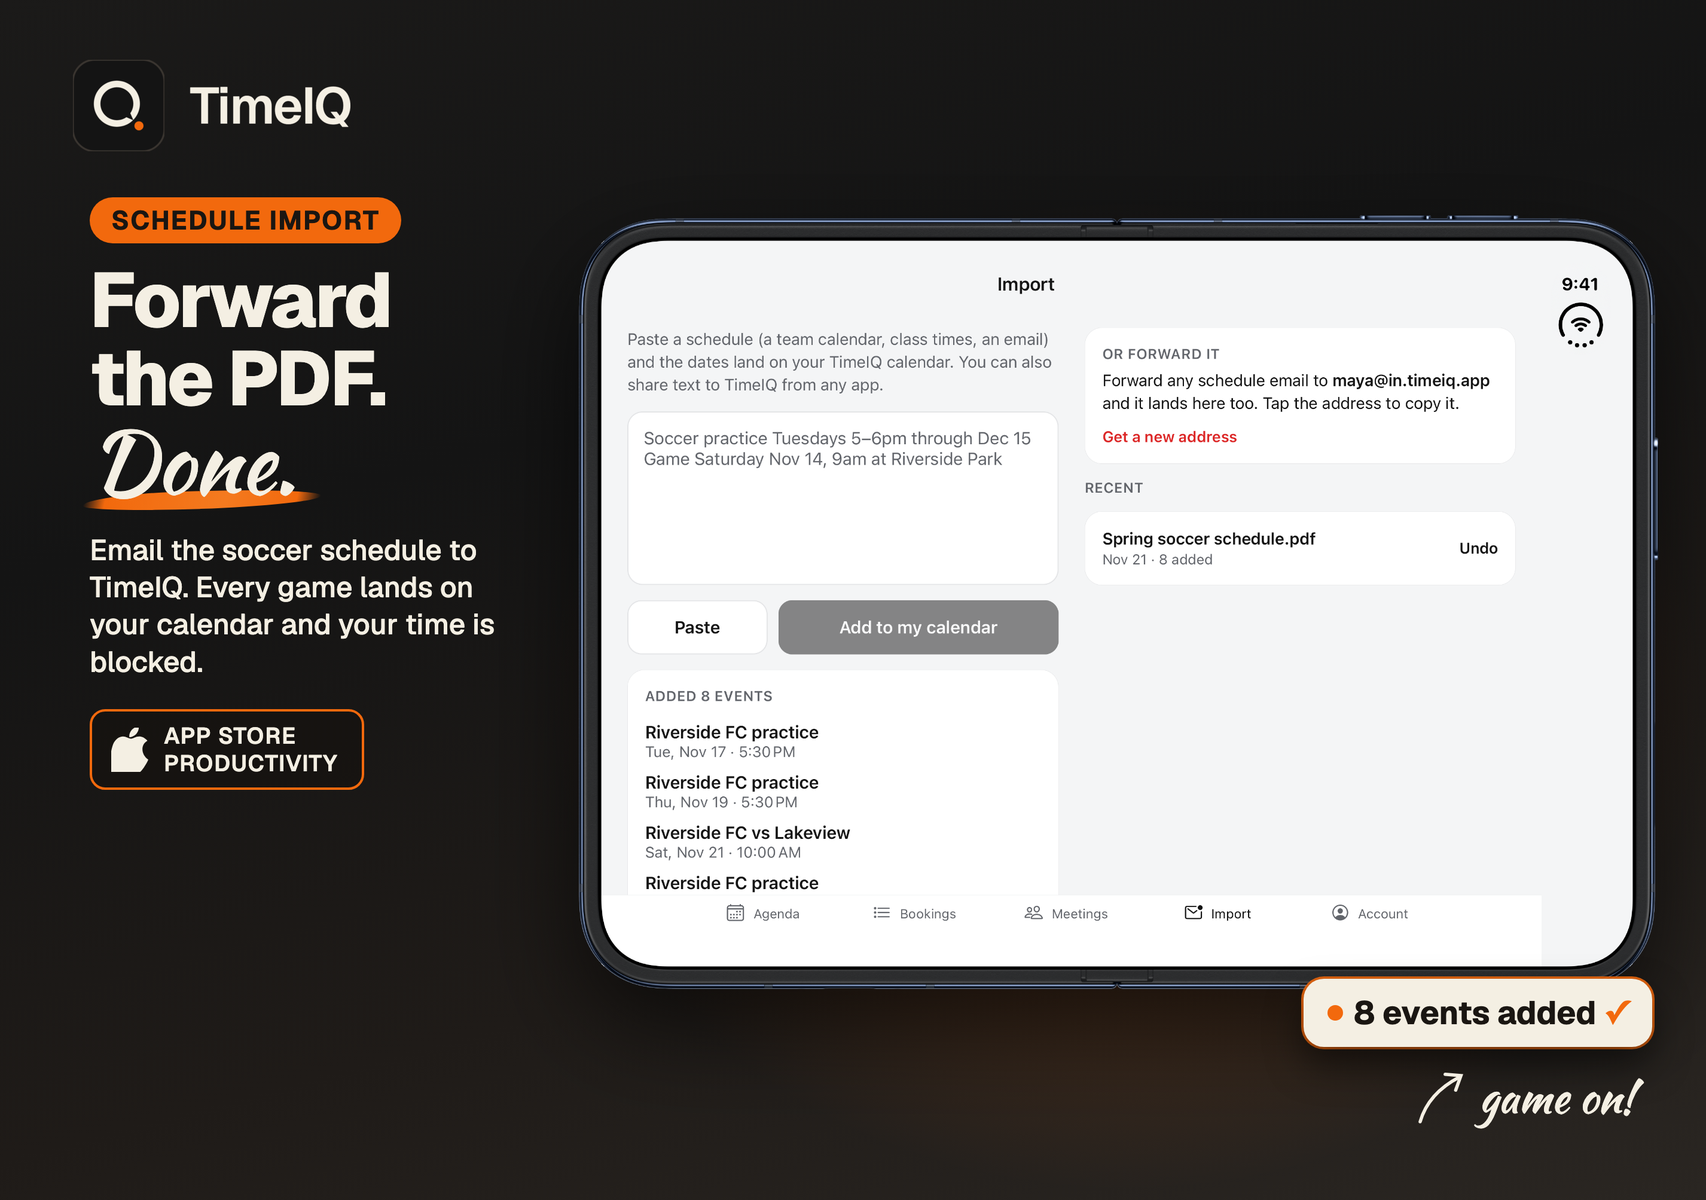
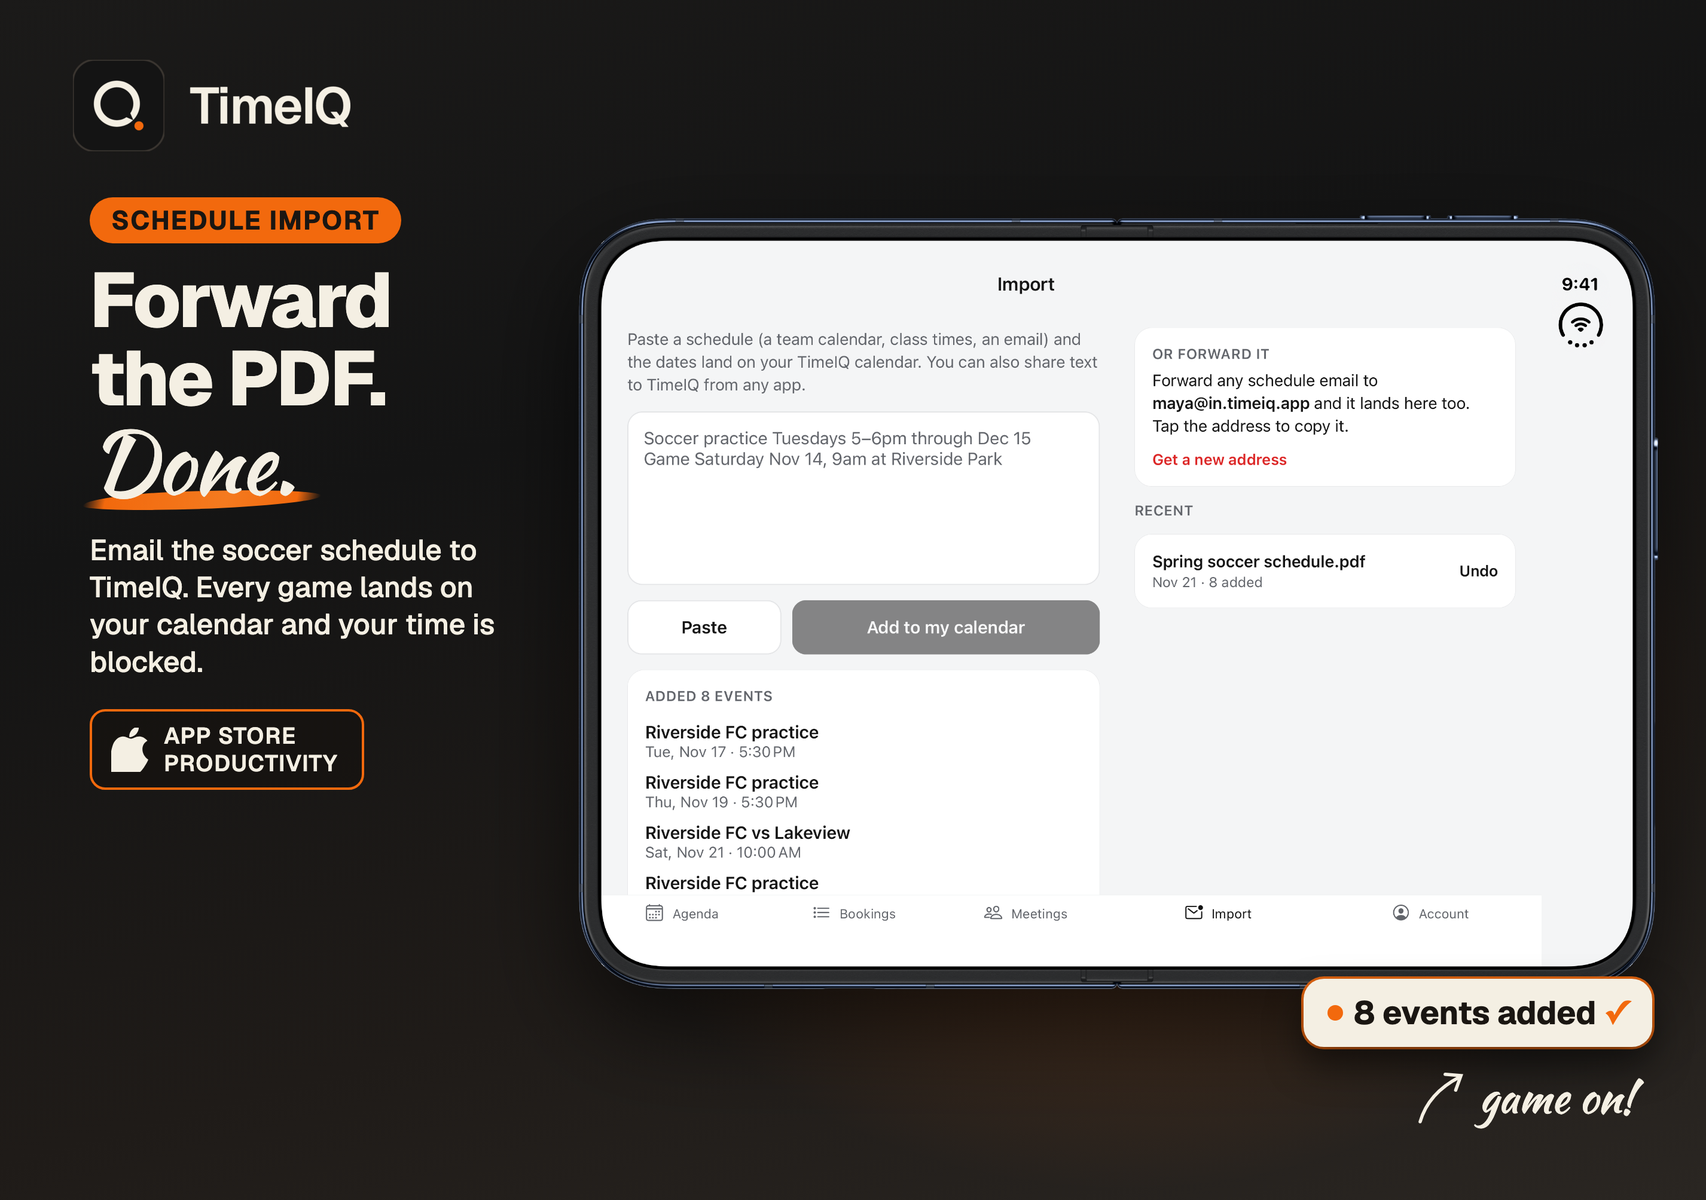
iPhone Duo: keep layouts off the fold, re-render Duo screenshots
- useFold() (components/ui.tsx): the unfolded Duo's fold at the inner display's midpoint across its long side. UIKit's hinge API (UIHinge.h / UIHingeInteraction.h, iOS 27.1) gives only status and angle, not the fold's position.
- Held like a book: Agenda, Bookings, Calendars and Availability side panes end exactly at the fold; Import columns and the Event types grid sit one each side with a 32pt gutter; tab bar puts three tabs left of the fold and two right.
- Ask TimeIQ: conversation on one side, starters + composer on the other (left/right as a book, top/bottom as a laptop).
- iPhone and iPad layouts are unchanged (useFold is null there).
- Recaptured the six Duo landscape screens; calendars, chat and share now use the book pose.

diff --git a/mobile/app/assistant.tsx b/mobile/app/assistant.tsx
@@ -4,7 +4,7 @@ import { Stack } from "expo-router";
 import { useEffect, useRef, useState } from "react";
 import { ActivityIndicator, KeyboardAvoidingView, Pressable, ScrollView, StyleSheet, Text, TextInput, View, type ScrollViewInstance, type TextInputInstance } from "react-native";
 import { useSafeAreaInsets } from "react-native-safe-area-context";
-import { readable, useWide } from "@/components/ui";
+import { HINGE, readable, useFold, useWide } from "@/components/ui";
 import { confirmAiConsent } from "@/lib/ai-consent";
 import { useApi } from "@/lib/api";
 import { SCREENSHOT_MODE } from "@/lib/config";
@@ -96,6 +96,9 @@ export default function Assistant() {
   const me = useMe();
   const insets = useSafeAreaInsets();
   const wide = useWide();
+  // Unfolded Duo: the conversation on one side of the fold, the starters and the composer on the other
+  // (left and right held like a book, top and bottom held like a laptop).
+  const fold = useFold();
   const [history, setHistory] = useState<Message[]>(kept.history);
   const [steps, setSteps] = useState<Step[][]>(kept.steps);
   const [draft, setDraft] = useState("");
@@ -165,7 +168,7 @@ export default function Assistant() {
   const firstName = me?.name?.split(" ")[0];
 
   const suggestions = (
-    <View style={styles.chips}>
+    <View style={[styles.chips, fold?.below ? styles.column : null]}>
       {SUGGESTIONS.map((s) => (
         <Pressable
           key={s}
@@ -197,8 +200,10 @@ export default function Assistant() {
             ),
         }}
       />
+      <View style={fold?.x ? styles.split : { flex: 1 }}>
       <ScrollView
         ref={scroll}
+        style={fold?.x ? { width: fold.x, flexGrow: 0, borderRightWidth: StyleSheet.hairlineWidth, borderColor: t.border } : undefined}
         contentContainerStyle={styles.list}
         keyboardShouldPersistTaps="handled"
         onContentSizeChange={() => scroll.current?.scrollToEnd({ animated: true })}
@@ -207,7 +212,7 @@ export default function Assistant() {
           <View style={{ gap: 6 }}>
             <Text style={[styles.title, { color: t.text }]}>What should we schedule{firstName ? `, ${firstName}` : ""}?</Text>
             <Text style={{ color: t.muted, fontSize: 15, lineHeight: 21 }}>Ask about your week, find time with people, or paste a schedule.</Text>
-            {suggestions}
+            {!fold && suggestions}
           </View>
         ) : (
           turns.map((turn, i) =>
@@ -232,7 +237,7 @@ export default function Assistant() {
           )
         )}
         {/* Wide windows have the room to keep the starters on offer after the conversation. */}
-        {wide && !empty && !busy && suggestions}
+        {!fold && wide && !empty && !busy && suggestions}
         {busy && (
           <View style={{ flexDirection: "row", alignItems: "center", gap: 10 }}>
             <ActivityIndicator color={t.primary} />
@@ -241,7 +246,9 @@ export default function Assistant() {
         )}
       </ScrollView>
 
-      <View style={[styles.composer, { borderTopColor: t.border, paddingBottom: Math.max(insets.bottom, 10) }]}>
+      <View style={fold?.x ? { flex: 1, justifyContent: "flex-end" } : fold?.below ? { height: fold.below + HINGE / 2, paddingTop: HINGE, justifyContent: "space-between" } : undefined}>
+      {fold && !busy && <View style={styles.starters}>{suggestions}</View>}
+      <View style={[styles.composer, { borderTopColor: t.border, paddingBottom: Math.max(insets.bottom, 10) }, fold?.x ? { paddingLeft: HINGE / 2 } : null]}>
         {error && <Text accessibilityRole="alert" style={{ color: t.danger, fontSize: 14, marginBottom: 8 }}>{error}</Text>}
         <View style={[styles.box, { borderColor: t.border, backgroundColor: t.card }]}>
           <TextInput
@@ -275,12 +282,17 @@ export default function Assistant() {
           </Pressable>
         </View>
       </View>
+      </View>
+      </View>
     </KeyboardAvoidingView>
   );
 }
 
 const styles = StyleSheet.create({
   list: { padding: 16, gap: 18, flexGrow: 1, ...readable, maxWidth: 760 },
+  split: { flex: 1, flexDirection: "row" },
+  starters: { paddingHorizontal: 16, paddingBottom: 12 },
+  column: { flexDirection: "column", alignItems: "flex-start" },
   title: { fontSize: 24, fontWeight: "700", letterSpacing: -0.3 },
   chips: { flexDirection: "row", flexWrap: "wrap", gap: 8, marginTop: 6 },
   chip: { borderWidth: 1, borderRadius: 999, paddingHorizontal: 14, paddingVertical: 9 },

diff --git a/mobile/app/event-types.tsx b/mobile/app/event-types.tsx
@@ -5,7 +5,7 @@ import * as WebBrowser from "expo-web-browser";
 import { useCallback, useState } from "react";
 import { ActivityIndicator, Alert, Pressable, ScrollView, Share, StyleSheet, Switch, Text, View, useWindowDimensions } from "react-native";
 import { BookingBrandingCard } from "@/components/booking-branding-card";
-import { Button, Card, Chips, Input, Label, Notice, ToggleRow, readable, useWide } from "@/components/ui";
+import { Button, Card, Chips, HINGE, Input, Label, Notice, ToggleRow, readable, useFold, useWide } from "@/components/ui";
 import { type EventType, useApi } from "@/lib/api";
 import { SITE_URL } from "@/lib/config";
 import { colorFor, type Theme, useTheme } from "@/lib/theme";
@@ -71,6 +71,12 @@ export default function EventTypes() {
   // Wide windows lay the cards out in a grid: 3 columns from 900pt, else 2.
   const wide = useWide();
   const cols = useWindowDimensions().width >= 900 ? 3 : 2;
+  // An unfolded Duo held like a book gets two columns, one each side of the fold (the page pads 24, the grid bleeds 6).
+  const fold = useFold();
+  const cell = (i: number) =>
+    fold?.x
+      ? i % 2 ? { flex: 1, paddingLeft: HINGE / 2 } : { width: fold.x - 18, paddingRight: HINGE / 2 }
+      : { width: `${100 / cols}%` as const };
   const [types, setTypes] = useState<EventType[] | null>(null);
   const [error, setError] = useState<string | null>(null);
   const [draft, setDraft] = useState<Draft | null>(null);
@@ -281,10 +287,10 @@ export default function EventTypes() {
       {types?.length === 0 && <Notice>No event types yet. Add one, like a 30-minute intro call, and share its link.</Notice>}
 
       <View style={wide ? styles.grid : styles.stack}>
-      {types?.map((e) => {
+      {types?.map((e, i) => {
         const link = linkFor(e);
         return (
-          <View key={e.id} style={wide ? [styles.cell, { width: `${100 / cols}%` }] : undefined}>
+          <View key={e.id} style={wide ? [styles.cell, cell(i)] : undefined}>
           <Card style={{ gap: 10, opacity: e.is_active ? 1 : 0.6, ...(wide && { flex: 1 }) }}>
             <View style={styles.head}>
               <View style={[styles.dot, { backgroundColor: e.color ?? colorFor(String(e.id)) }]} />
@@ -338,9 +344,9 @@ export default function EventTypes() {
         </View>
       )}
 
-      <View style={wide ? styles.row : styles.stack}>
+      <View style={wide ? [styles.row, fold?.x ? { gap: HINGE } : null] : styles.stack}>
       {connect && (
-        <Card style={{ gap: 10, marginTop: 8, ...(wide && { flex: 1 }) }}>
+        <Card style={{ gap: 10, marginTop: 8, ...(wide && { flex: 1 }), ...(fold?.x && { flex: 0, width: fold.x - 24 - HINGE / 2 }) }}>
           <Label>Payments</Label>
           <Text style={{ color: t.text, fontSize: 15, lineHeight: 21 }}>
             {connect.status === "ready"
@@ -357,7 +363,7 @@ export default function EventTypes() {
         </Card>
       )}
 
-      {types && me && (wide ? <View style={{ flex: 1, marginTop: 8 }}><BookingBrandingCard me={me} /></View> : <BookingBrandingCard me={me} />)}
+      {types && me && (wide ? <View style={{ flex: 1, marginTop: 8, ...(fold?.x && !connect && { flex: 0, width: fold.x - 24 - HINGE / 2 }) }}><BookingBrandingCard me={me} /></View> : <BookingBrandingCard me={me} />)}
       </View>
     </ScrollView>
   );

diff --git a/mobile/app/(app)/import.tsx b/mobile/app/(app)/import.tsx
@@ -2,7 +2,7 @@ import * as Clipboard from "expo-clipboard";
 import { useFocusEffect } from "expo-router";
 import { useCallback, useEffect, useState } from "react";
 import { Alert, KeyboardAvoidingView, Pressable, ScrollView, StyleSheet, Text, TextInput, View } from "react-native";
-import { Button, Card, Label, Notice, readable, useSplit } from "@/components/ui";
+import { Button, Card, HINGE, Label, Notice, readable, useFold, useSplit } from "@/components/ui";
 import { confirmAiConsent } from "@/lib/ai-consent";
 import { useApi } from "@/lib/api";
 import { SCREENSHOT_MODE } from "@/lib/config";
@@ -52,6 +52,8 @@ export default function Import() {
   const [shared, clearShared] = useSharedText();
   // Wide windows: paste on the left, the forwarding address and past imports on the right.
   const wide = useSplit();
+  // On an unfolded Duo the left column stops short of the fold and the right one starts past it (page padding 24).
+  const fold = useFold();
   const [text, setText] = useState("");
   const [address, setAddress] = useState<string | null>(null);
   const [busy, setBusy] = useState(false);
@@ -132,8 +134,8 @@ export default function Import() {
     <KeyboardAvoidingView behavior="padding" style={{ flex: 1 }}>
       <ScrollView contentContainerStyle={[styles.page, wide && styles.pageWide]} keyboardShouldPersistTaps="handled">
         {/* Keyed so a live switch (rotating or unfolding) lays the columns out from scratch; the paste box keeps its text in state. */}
-        <View key={wide ? "cols" : "stack"} style={wide ? styles.cols : styles.stack}>
-        <View style={wide ? styles.col : styles.stack}>
+        <View key={wide ? "cols" : "stack"} style={wide ? [styles.cols, fold?.x ? { gap: HINGE } : null] : styles.stack}>
+        <View style={wide ? [styles.col, fold?.x ? { flex: 0, width: fold.x - 24 - HINGE / 2 } : null] : styles.stack}>
         <Text style={[styles.lead, { color: t.muted }]}>
           Paste a schedule (a team calendar, class times, an email) and the dates land on your TimeIQ calendar. You can also share text to TimeIQ from any app.
         </Text>

diff --git a/mobile/components/ui.tsx b/mobile/components/ui.tsx
@@ -1,5 +1,6 @@
 import { Ionicons } from "@expo/vector-icons";
 import { ActivityIndicator, Pressable, StyleSheet, Switch, Text, TextInput, View, type ViewStyle, useWindowDimensions } from "react-native";
+import { useSafeAreaInsets } from "react-native-safe-area-context";
 import { useTheme } from "@/lib/theme";
 
 export function Card({ children, style }: { children: React.ReactNode; style?: ViewStyle }) {
@@ -180,6 +181,24 @@ export function useWide(): boolean {
  */
 export function useSplit(): boolean {
   return useWindowDimensions().width >= 840;
+}
+
+/** Clear space kept around the iPhone Duo's fold: panes stop HINGE / 2 short of it on each side. */
+export const HINGE = 32;
+
+/**
+ * Where the unfolded iPhone Duo's inner display (951 x 669pt) folds; null on every other screen.
+ * `x`: a vertical fold (held like a book), in the root stack's content coordinates (it pads by the side insets).
+ * `below`: a horizontal fold (held like a laptop), as the height from the fold to the bottom of the screen.
+ * UIKit's hinge API (UIHinge.h / UIHingeInteraction.h, iOS 27.1) reports the hinge's status and angle but not
+ * where the fold is, so this uses the display's midpoint across its long side, flat or half-open alike.
+ */
+export function useFold(): { x: number; below?: undefined } | { below: number; x?: undefined } | null {
+  const { width, height } = useWindowDimensions();
+  const insets = useSafeAreaInsets();
+  const [long, short] = [Math.round(Math.max(width, height)), Math.round(Math.min(width, height))];
+  if (long !== 951 || short !== 669) return null;
+  return width > height ? { x: width / 2 - insets.left } : { below: height / 2 };
 }
 
 const inputStyles = StyleSheet.create({

diff --git a/mobile/app/calendars.tsx b/mobile/app/calendars.tsx
@@ -2,7 +2,7 @@ import { Ionicons } from "@expo/vector-icons";
 import { useFocusEffect, useRouter } from "expo-router";
 import { useCallback, useEffect, useMemo, useState } from "react";
 import { ActivityIndicator, Alert, Pressable, RefreshControl, ScrollView, StyleSheet, Text, TextInput, View } from "react-native";
-import { Button, Card, Label, Notice, readable, useSplit } from "@/components/ui";
+import { Button, Card, Label, Notice, readable, useFold, useSplit } from "@/components/ui";
 import { ConnectCalendar, type Provider, useCalendarConnect } from "@/components/connect-calendar";
 import { WeekCalendar, bookingItems, syncedItems } from "@/components/week-calendar";
 import { type Booking, type CachedEvent, type CalendarSource, type EventType, useApi } from "@/lib/api";
@@ -39,6 +39,8 @@ export default function Calendars() {
   const [newLink, setNewLink] = useState("");
   const router = useRouter();
   const wide = useSplit();
+  // On an unfolded Duo the side pane ends exactly at the fold.
+  const fold = useFold();
   const me = useMe();
   const zone = me?.timezone ?? Intl.DateTimeFormat().resolvedOptions().timeZone;
   // What the synced calendars hold, on a read-only calendar under the list.
@@ -175,7 +177,7 @@ export default function Calendars() {
 
   const controls = (
     <ScrollView
-      style={wide && [styles.side, { borderColor: t.border }]}
+      style={wide && [styles.side, { borderColor: t.border }, fold?.x ? { width: fold.x } : null]}
       contentContainerStyle={styles.page}
       keyboardShouldPersistTaps="handled"
       refreshControl={<RefreshControl refreshing={syncing === "all"} onRefresh={() => sync("all")} />}

diff --git a/mobile/app/availability.tsx b/mobile/app/availability.tsx
@@ -2,7 +2,7 @@ import DateTimePicker from "@react-native-community/datetimepicker";
 import { useCallback, useEffect, useState } from "react";
 import { ActivityIndicator, Alert, Platform, Pressable, ScrollView, StyleSheet, Switch, Text, View } from "react-native";
 import { ShareAvailability } from "@/components/share-availability";
-import { Button, Card, Notice, readable, useSplit } from "@/components/ui";
+import { Button, Card, Notice, readable, useFold, useSplit } from "@/components/ui";
 import { type AvailabilityRule, useApi } from "@/lib/api";
 import { useTheme } from "@/lib/theme";
 import { useMe } from "@/lib/use-me";
@@ -25,6 +25,8 @@ const label = (hms: string) =>
 export default function Availability() {
   const t = useTheme();
   const wide = useSplit();
+  // On an unfolded Duo the side pane ends exactly at the fold.
+  const fold = useFold();
   const api = useApi();
   const me = useMe();
   const [rules, setRules] = useState<AvailabilityRule[] | null>(null);
@@ -85,7 +87,7 @@ export default function Availability() {
 
   // Wide windows: the week on the left, the share-your-times panel open on the right.
   const hours = (
-    <ScrollView style={wide && [styles.side, { borderColor: t.border }]} contentContainerStyle={styles.page}>
+    <ScrollView style={wide && [styles.side, { borderColor: t.border }, fold?.x ? { width: fold.x } : null]} contentContainerStyle={styles.page}>
       <Text style={{ color: t.muted, fontSize: 15, lineHeight: 21 }}>
         The hours people can book you, in {(me?.timezone ?? "your time zone").replace(/_/g, " ")}. Busy times on your calendars are left out automatically.
       </Text>

diff --git a/mobile/app/(app)/_layout.tsx b/mobile/app/(app)/_layout.tsx
@@ -4,6 +4,7 @@ import { type Href, Tabs, useRouter } from "expo-router";
 import { useShareIntentContext } from "expo-share-intent";
 import { useEffect } from "react";
 import { Platform } from "react-native";
+import { useFold } from "@/components/ui";
 import { useApi } from "@/lib/api";
 import { pushToken } from "@/lib/push";
 import { useTheme } from "@/lib/theme";
@@ -14,6 +15,7 @@ export default function AppLayout() {
   const api = useApi();
   const router = useRouter();
   const { hasShareIntent, shareIntent, resetShareIntent } = useShareIntentContext();
+  const fold = useFold();
 
   // Register this phone for booking notifications.
   useEffect(() => {
@@ -48,15 +50,17 @@ export default function AppLayout() {
 
   return (
     <Tabs
-      screenOptions={{
+      screenOptions={({ route }) => ({
         tabBarActiveTintColor: t.primary,
         tabBarInactiveTintColor: t.muted,
-        tabBarStyle: { backgroundColor: t.card, borderTopColor: t.border },
+        // Unfolded Duo held like a book: three tabs left of the fold, two right of it. The root stack already pads by the side insets.
+        tabBarStyle: { backgroundColor: t.card, borderTopColor: t.border, ...(fold?.x && { paddingLeft: 0, paddingRight: 0 }) },
+        tabBarItemStyle: fold?.x && ["index", "bookings", "meetings"].includes(route.name) ? { flex: 0, width: fold.x / 3 } : undefined,
         headerStyle: { backgroundColor: t.bg },
         headerTitleStyle: { color: t.text },
         headerShadowVisible: false,
         sceneStyle: { backgroundColor: t.bg },
-      }}
+      })}
     >
       <Tabs.Screen
         name="index"

diff --git a/mobile/app/(app)/bookings.tsx b/mobile/app/(app)/bookings.tsx
@@ -3,7 +3,7 @@ import { Stack, useFocusEffect, useRouter } from "expo-router";
 import { useCallback, useMemo, useState } from "react";
 import { ActivityIndicator, Pressable, RefreshControl, ScrollView, StyleSheet, Text, View } from "react-native";
 import { BookingDetail } from "@/components/booking-detail";
-import { Notice, Segmented, readable, useSplit } from "@/components/ui";
+import { Notice, Segmented, readable, useFold, useSplit } from "@/components/ui";
 import { type Booking, type EventType, useApi } from "@/lib/api";
 import { colorFor, useTheme } from "@/lib/theme";
 import { dayKey, fmt, timeOf } from "@/lib/time";
@@ -20,6 +20,8 @@ export default function Bookings() {
   const [tab, setTab] = useState<Tab>("upcoming");
   // Wide windows show the picked booking (or the first one) beside the list.
   const wide = useSplit();
+  // On an unfolded Duo the side pane ends exactly at the fold.
+  const fold = useFold();
   const [picked, setPicked] = useState<string | null>(null);
   const [all, setAll] = useState<Booking[] | null>(null);
   // When `all` was fetched; "ended" is judged against it (render must stay pure).
@@ -93,7 +95,7 @@ export default function Bookings() {
       />
       {wide ? (
         <View style={styles.split}>
-          <View style={[styles.side, { borderColor: t.border }]}>{list()}</View>
+          <View style={[styles.side, { borderColor: t.border }, fold?.x ? { width: fold.x } : null]}>{list()}</View>
           <View style={{ flex: 1 }}>
             {selectedId ? <BookingDetail key={selectedId} id={selectedId} onDone={load} /> : null}
           </View>

diff --git a/mobile/app/(app)/index.tsx b/mobile/app/(app)/index.tsx
@@ -6,7 +6,7 @@ import { SafeAreaView } from "react-native-safe-area-context";
 import { SetupChecklist } from "@/components/setup-checklist";
 import { ShareAvailability } from "@/components/share-availability";
 import { TipsPrompt } from "@/components/tips-prompt";
-import { Notice, useSplit } from "@/components/ui";
+import { Notice, useFold, useSplit } from "@/components/ui";
 import { type CalItem, WeekCalendar, bookingItems, confirmMove, syncedItems } from "@/components/week-calendar";
 import { ApiError, type BillingStatus, type Booking, type CachedEvent, type EventType, useApi } from "@/lib/api";
 import { SITE_URL } from "@/lib/config";
@@ -33,6 +33,8 @@ export default function Agenda() {
   const zone = me?.timezone ?? Intl.DateTimeFormat().resolvedOptions().timeZone;
   // Wide windows (iPad, an unfolded Duo in landscape) show the list and the calendar side by side.
   const wide = useSplit();
+  // On an unfolded Duo the side pane ends exactly at the fold.
+  const fold = useFold();
   const [selected, setSelected] = useState(() => new Date());
   const [bookings, setBookings] = useState<Booking[]>([]);
   const [events, setEvents] = useState<CachedEvent[]>([]);
@@ -320,7 +322,7 @@ export default function Agenda() {
     <SafeAreaView edges={["top"]} style={{ flex: 1, backgroundColor: t.bg }}>
       {wide ? (
         <View style={styles.split}>
-          <View style={[styles.side, { borderColor: t.border }]}>
+          <View style={[styles.side, { borderColor: t.border }, fold?.x ? { width: fold.x } : null]}>
             {header}
             {banner}
             {list}

diff --git a/mobile/store-art/duo/duo-composite.py b/mobile/store-art/duo/duo-composite.py
@@ -129,7 +129,9 @@ def land(cap):
 if __name__ == "__main__":
     os.makedirs(OUT, exist_ok=True)
     jobs = {f"land-{c}": (land, f"{c}-land") for c in ["01_agenda", "02_assistant", "03_availability", "04_calendars", "05_event_types", "06_import"]}
-    jobs.update({"book-03_availability": (book, "03_availability-land"), "laptop-02_assistant": (laptop, "02_assistant-port")})
+    # The app splits its panes at the fold (useFold), so these read cleanly bent like a book.
+    jobs.update({f"book-{c}": (book, f"{c}-land") for c in ["01_agenda", "02_assistant", "03_availability"]})
+    # laptop() needs an inner-portrait capture (DeviceHub's open-portrait posture): jobs["laptop-02_assistant"] = (laptop, "02_assistant-port")
     for name, (fn, cap) in jobs.items():
         fn(cap).save(os.path.join(OUT, f"{name}.png"))
         print("framed", name)
